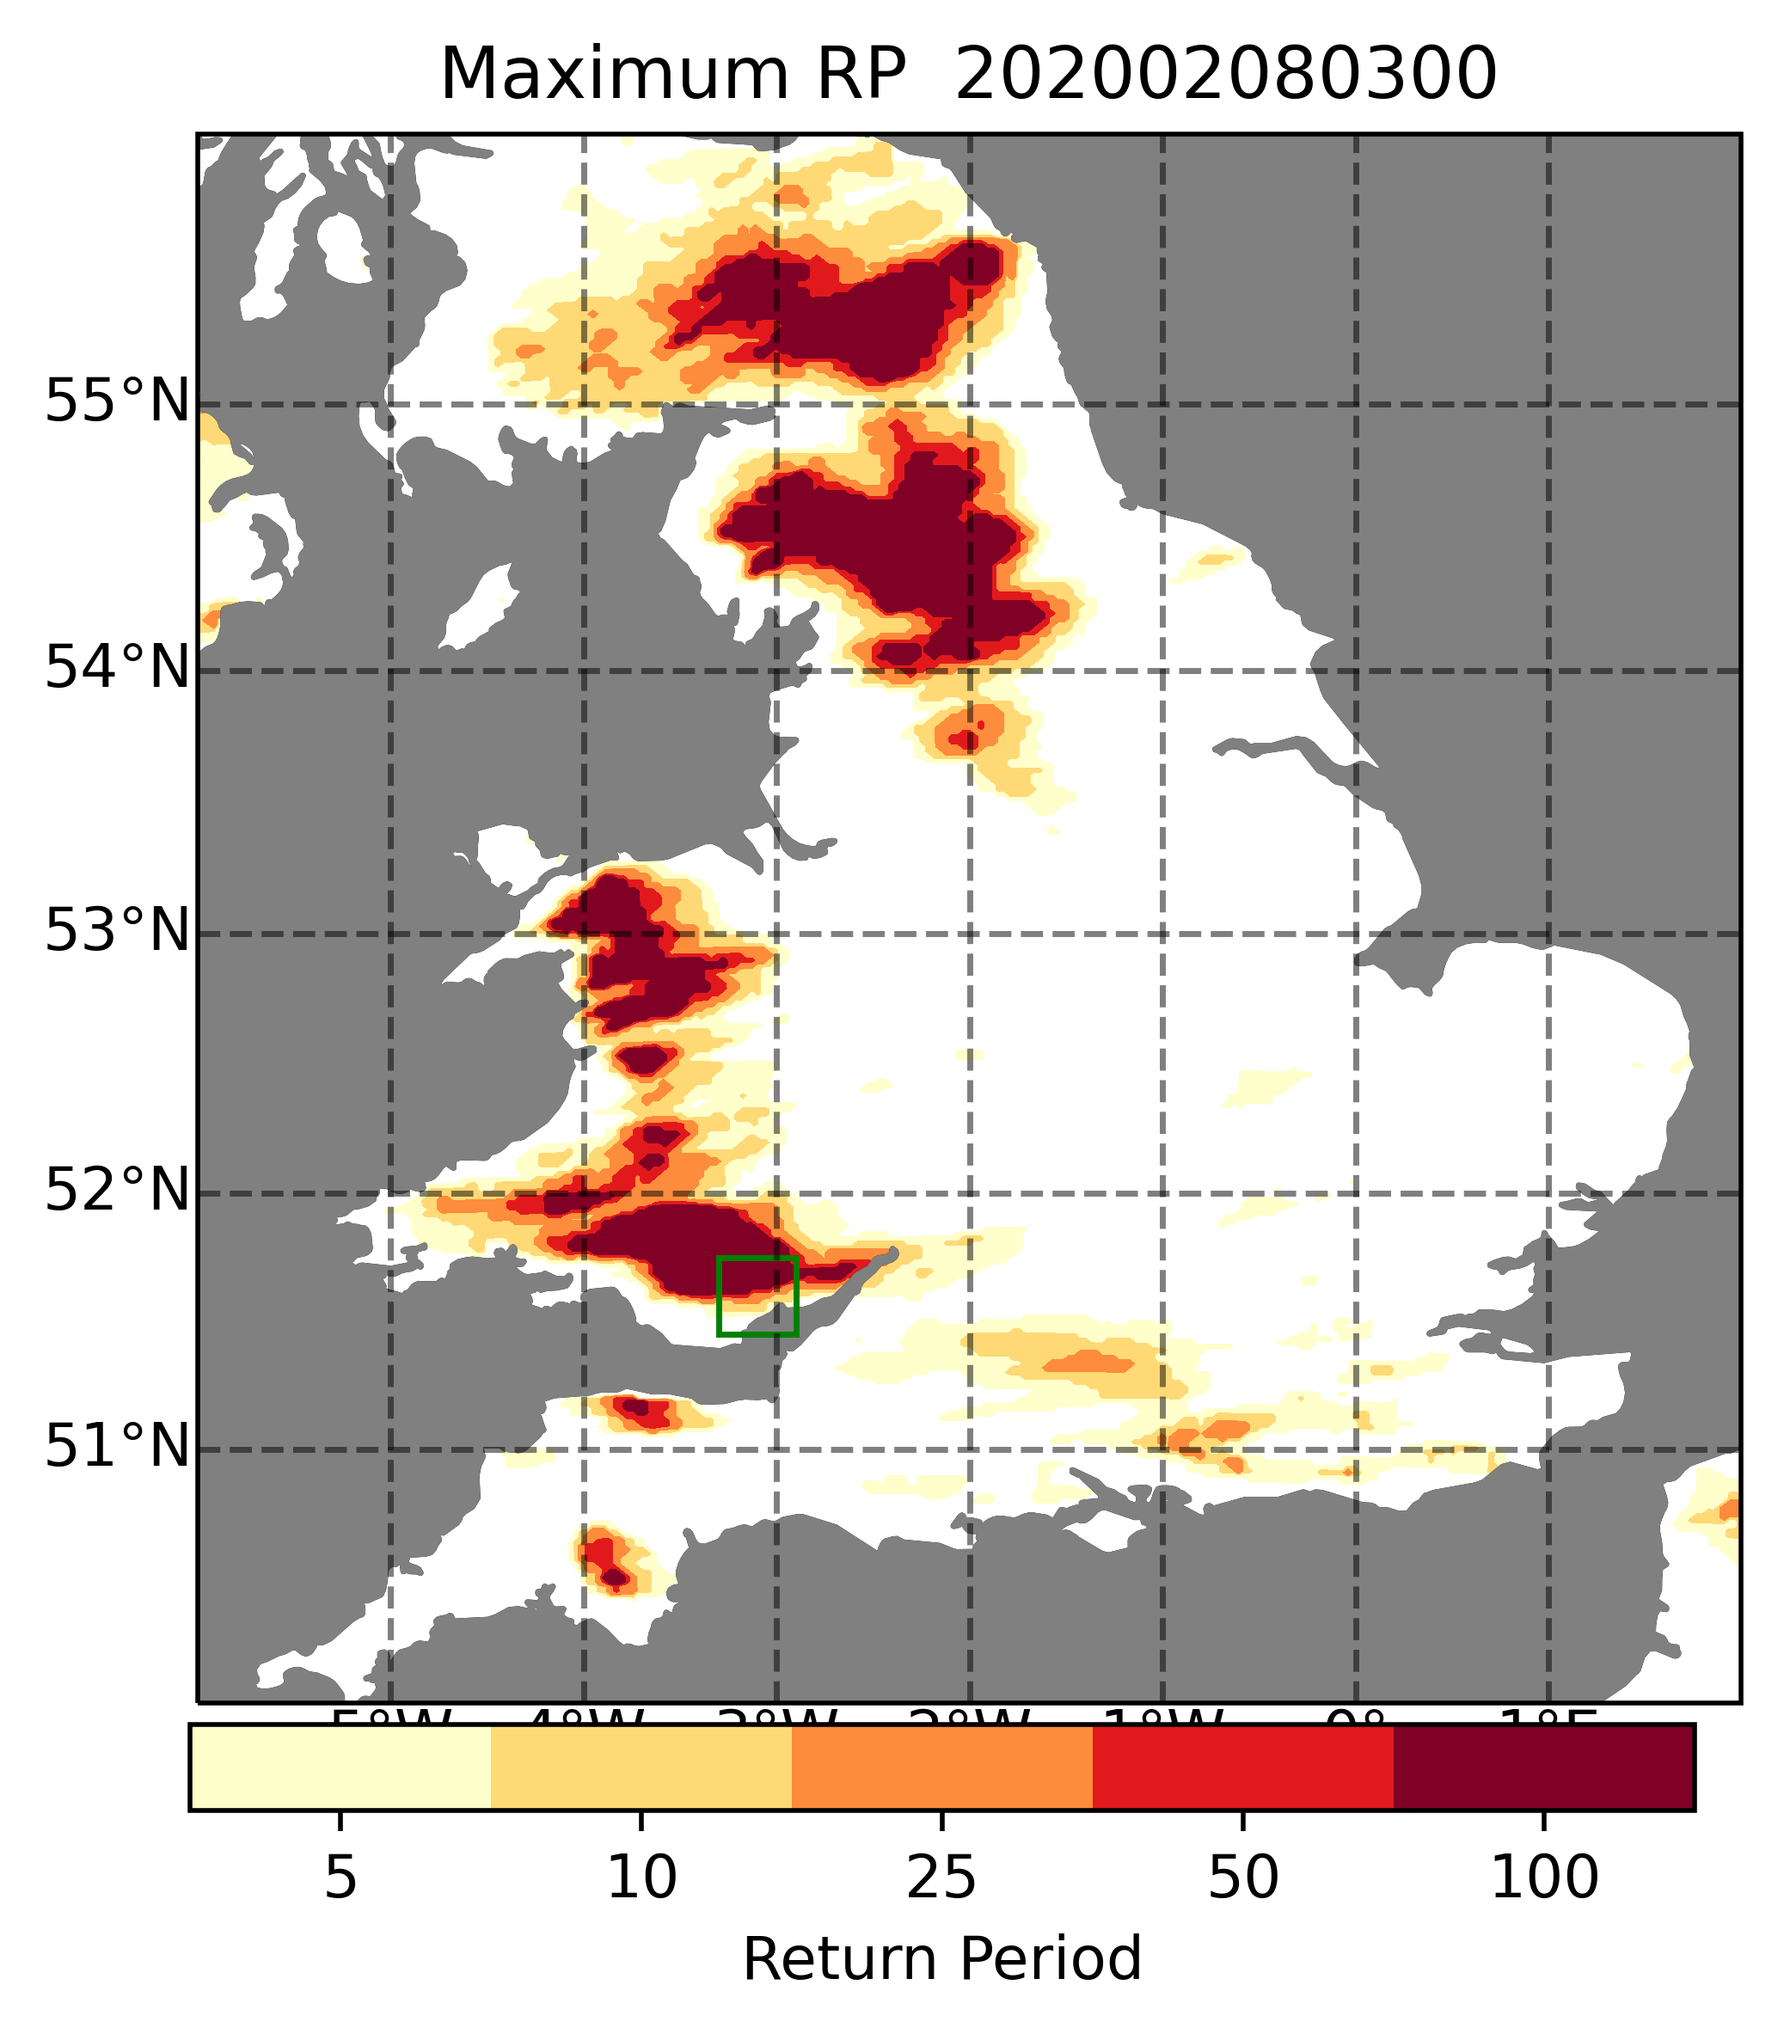
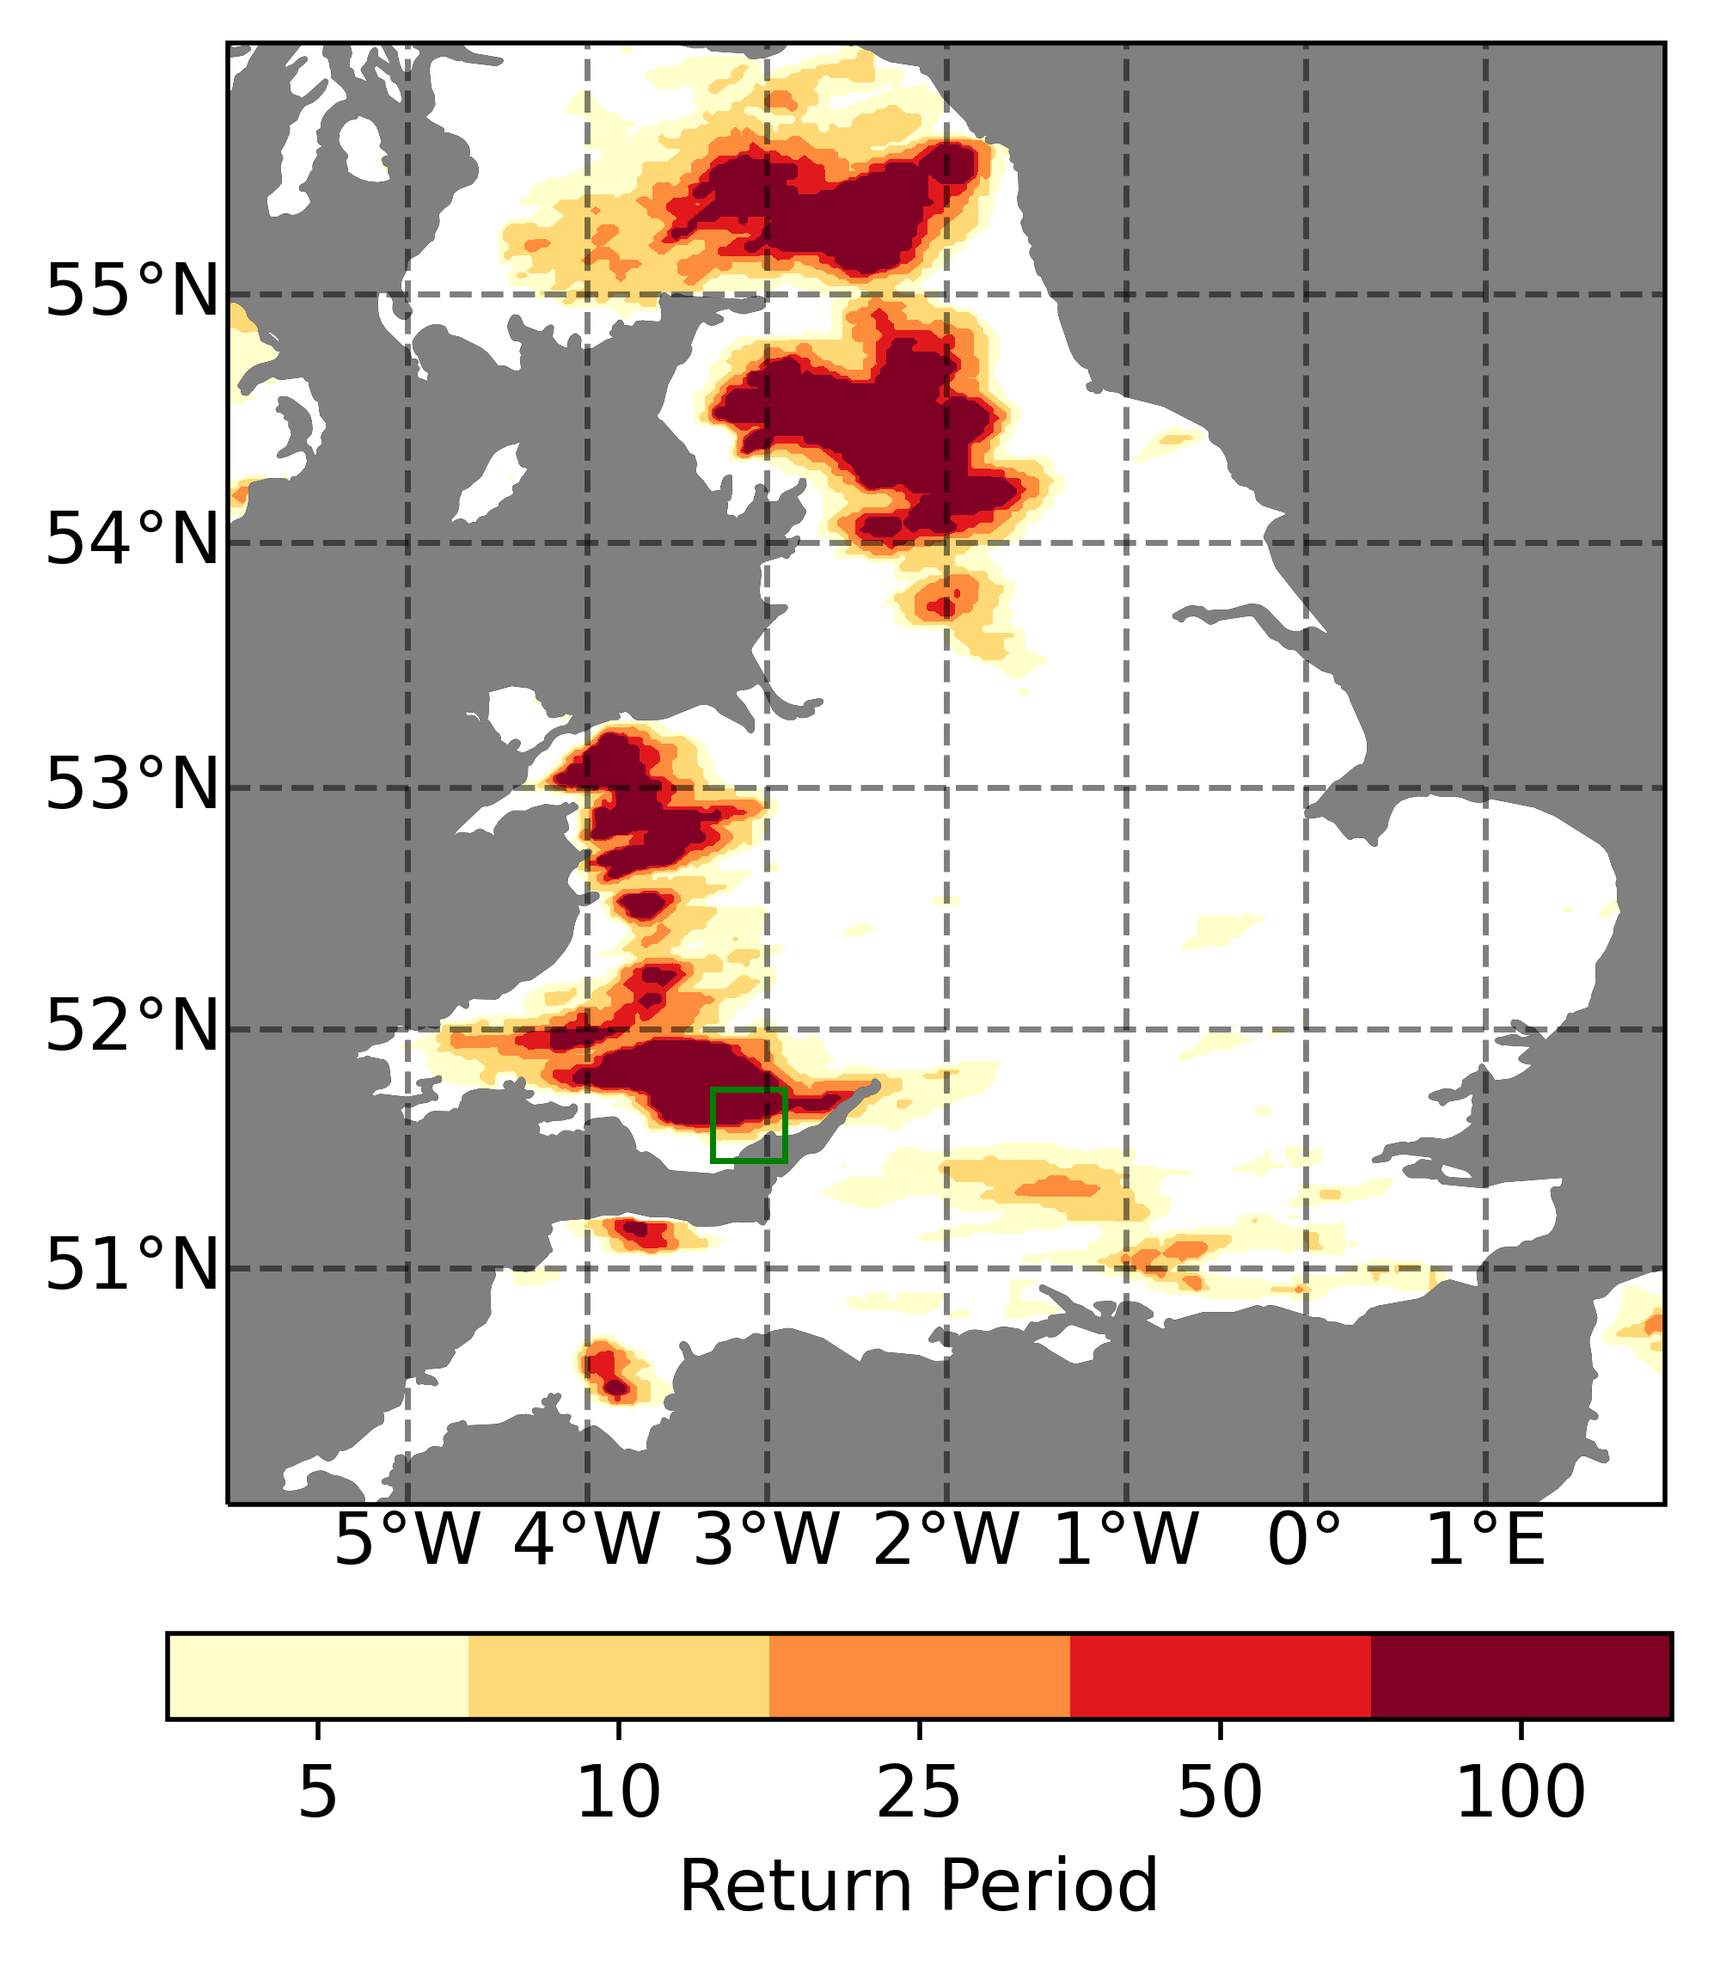
Plots cleaned up further

diff --git a/Code/visualisation/Plot_prob_of_exceedance.py b/Code/visualisation/Plot_prob_of_exceedance.py
@@ -43,7 +43,7 @@ def Calculate_number_of_members(Ens, rp):
     return Num
 
 
-def Plot_exceedance_prob(Prob, ax, title, transform, lon_min=5, lon_max=15.5, lat_min=47, lat_max=55):
+def Plot_exceedance_prob(Prob, ax, title, color, transform, lon_min=5, lon_max=15.5, lat_min=47, lat_max=55):
     levels = np.arange(0, 110, 10)
     levels[0] = 1
 
@@ -54,7 +54,7 @@ def Plot_exceedance_prob(Prob, ax, title, transform, lon_min=5, lon_max=15.5, la
     ax.add_feature(feature.OCEAN, zorder=1, color='grey')
     ax.add_feature(feature.BORDERS)
     ax.set_extent([lon_min, lon_max, lat_min, lat_max], crs=ccrs.PlateCarree())
-    ax.set_title(title + ' Year RP')
+    ax.set_title(title + ' Year RP', color=color)
     return cm
 
 
@@ -491,9 +491,89 @@ def Plot_num_memb_ERA_ciara(event='202002080300', lon_min=-3, lon_max=2, lat_max
     cbar.set_ticks(np.arange(1, 19))
     plt.savefig('Plots/UK/ciara/ERA_num_members' + event + '.png', bbox_inches='tight')
 
+def Plot_exc_prob_GPM_and_ERA(land, event=None, lon_min=5, lon_max=15.5, lat_min=47, lat_max=55, figsize=(10, 10)):
+    # Read data GPM
+    if land == 'GER':
+        GPM_ens = Read_ensemble_GER('GPM', event)
+        transform = ccrs.PlateCarree()
+
+    if land == 'UK':
+        GPM_ens = Read_ensemble_UK('GPM', event)
+        central_latitude = GPM_ens.lambert_azimuthal_equal_area.latitude_of_projection_origin
+        central_longitude = GPM_ens.lambert_azimuthal_equal_area.longitude_of_projection_origin
+        transform = ccrs.LambertAzimuthalEqualArea(
+            central_latitude=central_latitude,
+            central_longitude=central_longitude)
+
+    # Read data ERA
+    if land == 'GER':
+        ERA_ens = Read_ensemble_GER('ERA', event)
+
+    if land == 'UK':
+        ERA_ens = Read_ensemble_UK('ERA', event)
+
+
+    # Calculate Prob of Exceedance
+    ex_prob_GPM = {}
+    ex_prob_GPM['5'] = Calculate_exc_prob(GPM_ens, 5)
+    ex_prob_GPM['10'] = Calculate_exc_prob(GPM_ens, 10)
+    ex_prob_GPM['25'] = Calculate_exc_prob(GPM_ens, 25)
+
+    # Calculate Prob of Exceedance
+    ex_prob_ERA = {}
+    ex_prob_ERA['5'] = Calculate_exc_prob(ERA_ens, 5)
+    ex_prob_ERA['10'] = Calculate_exc_prob(ERA_ens, 10)
+    ex_prob_ERA['25'] = Calculate_exc_prob(ERA_ens, 25)
+    ex_prob_ERA['50'] = Calculate_exc_prob(ERA_ens, 50)
+    ex_prob_ERA['100'] = Calculate_exc_prob(ERA_ens, 100)
+
+
+    fig, axes = plt.subplots(2, 4, figsize=figsize, subplot_kw={'projection': ccrs.Miller()})
+    # Plot ERA
+    rps_ERA = list(ex_prob_ERA.keys())
+    for i in range(5):
+        cm = Plot_exceedance_prob(ex_prob_ERA[rps_ERA[i]], axes.flatten()[i], title=rps_ERA[i], color='green',
+                                  transform=transform,
+                                  lon_min=lon_min, lon_max=lon_max, lat_min=lat_min, lat_max=lat_max)
+
+    # Plot GPM
+    rps_GPM = list(ex_prob_GPM.keys())
+    for i in range(3):
+        Plot_exceedance_prob(ex_prob_GPM[rps_GPM[i]], axes.flatten()[i+5], title=rps_GPM[i], color='blue', transform=transform,
+                             lon_min=lon_min, lon_max=lon_max, lat_min=lat_min, lat_max=lat_max)
+
+    # Set grid of left ax
+    for ax in axes[:, 0]:
+        gl = ax.gridlines(crs=ccrs.PlateCarree(), draw_labels=True, linewidth=1, color='k', alpha=0.5,
+                          linestyle='--')
+        gl.top_labels = False
+        gl.right_labels = False
+        gl.bottom_labels = False
+
+    for ax in axes[1, :]:
+        gl = ax.gridlines(crs=ccrs.PlateCarree(), draw_labels=True, linewidth=1, color='k', alpha=0.5,
+                          linestyle='--')
+        gl.top_labels = False
+        gl.right_labels = False
+        gl.left_labels = False
+
+    axes[0, 1].gridlines(crs=ccrs.PlateCarree(), draw_labels=False, linewidth=1, color='k', alpha=0.5,
+                         linestyle='--')
+    axes[0, 2].gridlines(crs=ccrs.PlateCarree(), draw_labels=False, linewidth=1, color='k', alpha=0.5,
+                         linestyle='--')
+    axes[0, 3].gridlines(crs=ccrs.PlateCarree(), draw_labels=False, linewidth=1, color='k', alpha=0.5,
+                         linestyle='--')
+
+    fig.subplots_adjust(bottom=0.21)
+    cbar_ax = fig.add_axes([0.15, 0.1, 0.7, 0.05])
+    fig.colorbar(cm, cax=cbar_ax, orientation='horizontal', pad=0.01, label='Probability of >= RP [%]')
+    plt.savefig('Plots/' + land + '/' + event + '/GPM_ERA_ex_prob.png', bbox_inches='tight', dpi=500)
+
 # %%
 if __name__ == '__main__':
-
+    #Plot_exc_prob_GPM_and_ERA(land='GER', event='20210711T1800Z', figsize=(11, 6))
+    Plot_exc_prob_GPM_and_ERA(land='UK', event='20210723T2100Z', lon_min=-3, lon_max=2, lat_max=50.5, lat_min=53,
+                              figsize=(11, 4))
     #Plot_exc_prob_GPM(land='GER', event='20210711T1800Z')
     #Plot_num_memb_GPM(land='GER', event='20210711T1800Z')
     #Plot_exc_prob_ERA(land='GER', event='20210711T1800Z')
@@ -506,5 +586,5 @@ if __name__ == '__main__':
 
     #Plot_exc_prob_GPM_ciara(lon_min=-6, lon_max=2, lat_max=50, lat_min=56)
     #Plot_num_memb_GPM_ciara(lon_min=-6, lon_max=2, lat_max=50, lat_min=56)
-    Plot_exc_prob_ERA_ciara(lon_min=-6, lon_max=2, lat_max=50, lat_min=56)
-    Plot_num_memb_ERA_ciara(lon_min=-6, lon_max=2, lat_max=50, lat_min=56)
+    #Plot_exc_prob_ERA_ciara(lon_min=-6, lon_max=2, lat_max=50, lat_min=56)
+    #Plot_num_memb_ERA_ciara(lon_min=-6, lon_max=2, lat_max=50, lat_min=56)

diff --git a/Code/visualisation/Check return periods.py b/Code/visualisation/Check return periods.py
@@ -1,7 +1,6 @@
 """
 This script contains some code to inspect and plot the GPM return periods to see if the calculation procedure is valid.
 """
-
 import matplotlib.pyplot as plt
 import matplotlib
 import numpy as np
@@ -13,6 +12,7 @@ import cmocean as ccm
 from xclim.indices.generic import select_resample_op
 from xclim.indices.stats import fit, parametric_quantile
 from scipy.stats import genextreme
+
 
 # %% set font size
 matplotlib.rcParams.update({'font.size': 12})
@@ -150,6 +150,10 @@ for rp in rps:
 
 # %% Plot return periods and difference
 
+# coords scotland
+lon_scot = -4.9
+lat_scot = 56.5
+
 # set rp
 rp = '25'
 
@@ -159,14 +163,15 @@ cms = np.empty(axes.shape).tolist()
 gls = np.empty(axes.shape).tolist()
 
 # Plot UK
-cms[0][0], gls[0][0] = plot_RP(axes[0, 0], ERA_UK[rp], title='EPI', c_min=20, c_max=180, levels=21, lon_min=-11,
-                               lon_max=2, lat_min=49.5, lat_max=60)
+cms[0][0], gls[0][0] = plot_RP(axes[0, 0], ERA_UK[rp], title='EPI', c_min=20, c_max=180, levels=21, lon_min=-8,
+                               lon_max=2, lat_min=49.9, lat_max=58.5)
 cms[0][1], gls[0][1] = plot_RP(axes[0, 1], GPM_UK[rp].precipitationCal, title='GPM', c_min=20, c_max=180, levels=21,
-                               lon_min=-11, lon_max=2, lat_min=49.5, lat_max=60)
+                               lon_min=-8, lon_max=2, lat_min=49.9, lat_max=58.5)
 gls[0][1].left_labels = False
-cms[0][2], gls[0][2] = plot_difference(axes[0, 2], GPM_UK[rp].precipitationCal, ERA_UK[rp], title='GPM - EPA',
-                                       lon_min=-11, lon_max=2, lat_min=49.5, lat_max=60)
+cms[0][2], gls[0][2] = plot_difference(axes[0, 2], GPM_UK[rp].precipitationCal, ERA_UK[rp], title='GPM - EPI',
+                                       lon_min=-8, lon_max=2, lat_min=49.9, lat_max=58.5)
 gls[0][2].left_labels = False
+axes[0, 1].plot(lon_scot, lat_scot, color='red', marker='o', transform=ccrs.PlateCarree())
 
 # Plot GER
 cms[1][0], gls[1][0] = plot_RP(axes[1, 0], ERA_GER[rp], title='EPI', c_min=20, c_max=180, levels=21, lon_min=5, lon_max=15.5,
@@ -186,6 +191,10 @@ fig.colorbar(cms[0][0], cax=cbar_ax1, orientation='horizontal', pad=0.01, label=
 fig.colorbar(cms[0][2], cax=cbar_ax2, orientation='horizontal', pad=0.01, label='Daily Precipitation [mm]')
 plt.savefig('Plots/Comparison_rp' + rp +'.png', bbox_inches='tight')
 plt.show()
+# %% Extract specific values
+val_ERA = ERA_UK['25'].sel(latitude=lat_scot, longitude=lon_scot, method='nearest')
+val_GPM = GPM_UK['25'].precipitationCal.sel(latitude=lat_scot, longitude=lon_scot, method='nearest')
+diff = val_GPM.values - val_ERA.values
 
 
 # %% Plot difference

diff --git a/Code/visualisation/plot_max_rp.py b/Code/visualisation/plot_max_rp.py
@@ -34,7 +34,7 @@ def plot_max(land, event, lon_min=-3, lon_max=2, lat_max=50.5, lat_min=53, box=N
                 central_latitude=central_latitude,
                 central_longitude=central_longitude)
 
-        figsize = (5, 5)
+        figsize = (5, 4)
 
 
     # calculate max rp
@@ -53,7 +53,6 @@ def plot_max(land, event, lon_min=-3, lon_max=2, lat_max=50.5, lat_min=53, box=N
     ax.add_feature(feature.OCEAN, zorder=1, color='grey')
     ax.add_feature(feature.BORDERS)
     ax.set_extent([lon_min, lon_max, lat_min, lat_max], crs=ccrs.PlateCarree())
-    ax.set_title('Maximum RP  ' + event)
 
     # draw gridlines
     gl = ax.gridlines(crs=ccrs.PlateCarree(), draw_labels=True, linewidth=1, color='k', alpha=0.5, linestyle='--')
@@ -61,7 +60,7 @@ def plot_max(land, event, lon_min=-3, lon_max=2, lat_max=50.5, lat_min=53, box=N
     gl.right_labels = False
 
     # add colorbar
-    fig.subplots_adjust(bottom=0.15)
+    fig.subplots_adjust(bottom=0.2)
     cbar_ax = fig.add_axes([0.15, 0.1, 0.7, 0.04])
     c_bar = fig.colorbar(cm, cax=cbar_ax, orientation='horizontal', pad=0.01, label='Return Period')
     c_bar.set_ticks([5, 10, 25, 50, 100])
@@ -80,5 +79,5 @@ if __name__ == '__main__':
     box_london = [-0.6, 0.4, 51.7, 51.3]
     box_cardif = [-3.3, -2.9, 51.75, 51.45]
     plot_max('UK', event='20210723T2100Z', lon_min=-3, lon_max=2, lat_max=50.5, lat_min=53, box=box_london)
-    plot_max('UK', event='202002080300', lon_min=-6, lon_max=2, lat_max=50, lat_min=56, box=box_cardif)
-    #plot_max('GER', event='20210711T1800Z', lon_min=5, lon_max=15.5, lat_min=47, lat_max=55)
+    # plot_max('UK', event='202002080300', lon_min=-6, lon_max=2, lat_max=50, lat_min=56, box=box_cardif)
+    #plot_max('GER', event='20210711T1800Z', lon_min=5.7, lon_max=15, lat_min=47.3, lat_max=55)
